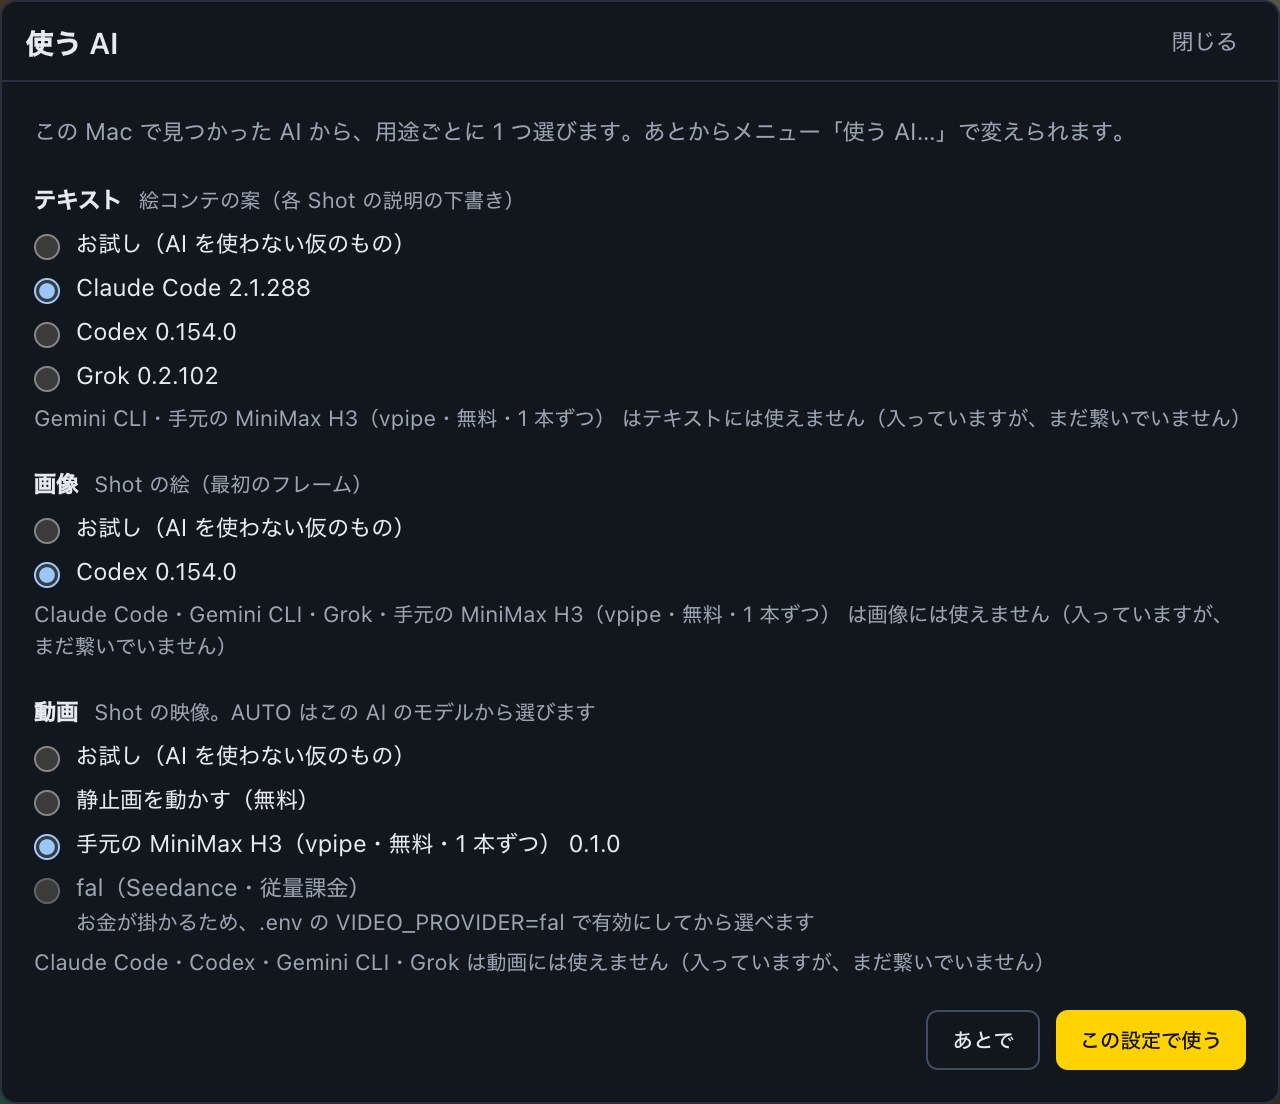
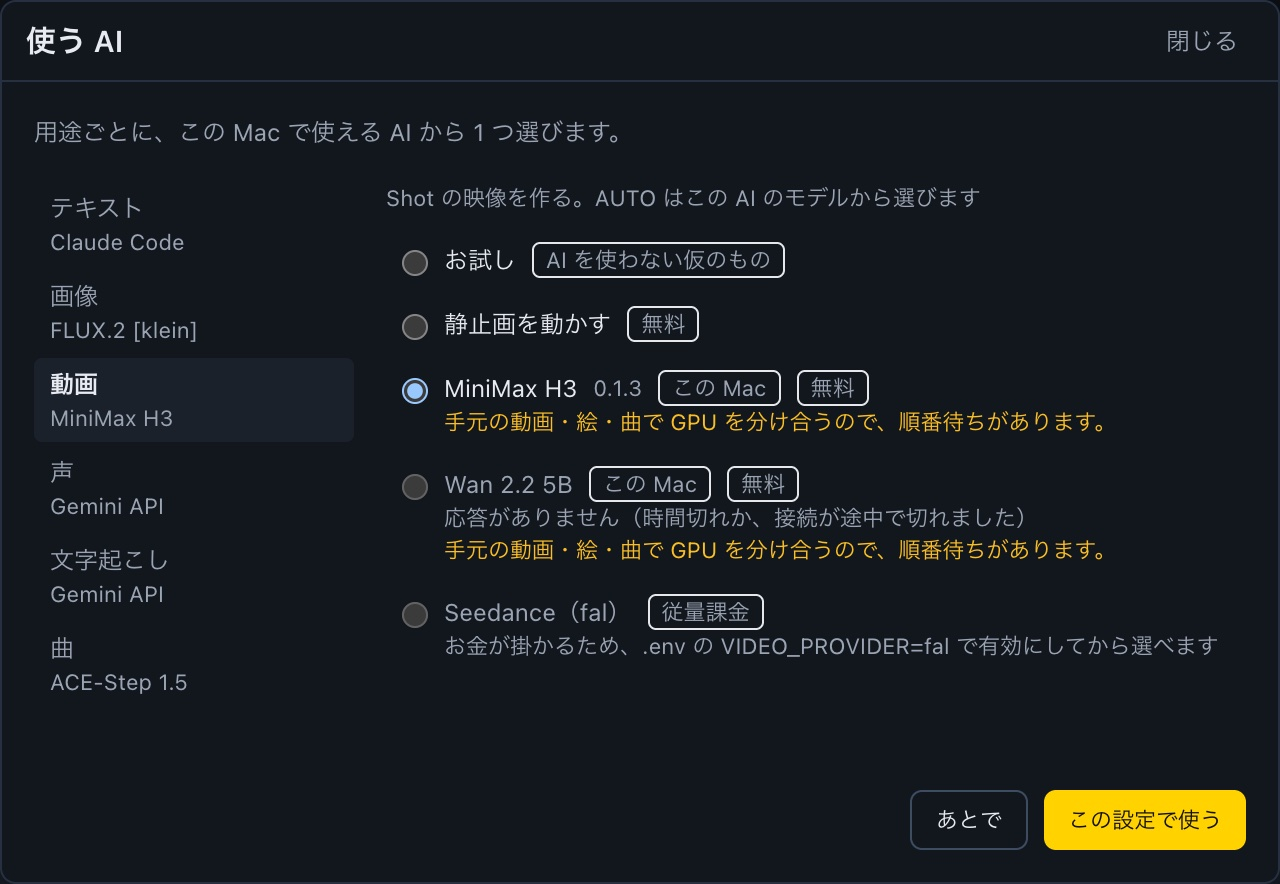
docs: README を今の姿に合わせる（曲づくり・MCP・手元の 4 サーバ・ナレーション）
画像は Codex だけ、動画の手元サーバは 2 つ、という書き方のままだった。
曲を作る（ADR-0048）、エージェントに任せる MCP（ADR-0049）、制作の流れのナレーションの段、
klein と ACE-Step のライセンスを足し、使う AI の表と画面の画像を今のものにした。

Claude-Session: https://claude.ai/code/session_01SywW9NjSXfdkn8Pr8SAdfa

diff --git a/README.md b/README.md
@@ -33,6 +33,9 @@ timeline:
 The work is therefore *edit against the music, then fill each slot* — never *generate clips
 and hope they fit*. The first film made with it is a 1m56s music video in 27 shots.
 
+No finished song yet? *Make a song* writes one on your own Mac with ACE-Step 1.5 — a style, optional
+lyrics, a length — and it lands in the project as a track, analysed like any other.
+
 ![Cutting while listening: section boundaries placed as cuts in one click, with the cuts they make](./docs/images/cutter.jpg)
 
 ## From an empty project to the exported file
@@ -50,24 +53,41 @@ step shows ✓ when it is done, or how far along it is.
 4. **Captions** — the timed lines become text clips. The preview plays the song with the
    captions over black, so you can check timing without generating — or paying for — any
    pictures.
-5. **Cut into shots** — place cuts while listening (Enter works anywhere, cuts snap to the
+5. **Narration** (optional) — write lines and have an AI voice read them, or record your own
+   and let it be transcribed into lines and captions. The music ducks under the voice.
+6. **Cut into shots** — place cuts while listening (Enter works anywhere, cuts snap to the
    beat), or in one click at section boundaries or lyric starts. Cuts are a draft until you
    press *N cuts → shots*.
-6. **Storyboard** — an AI drafts a description, a mood **and a camera** (shot size, angle,
+7. **Storyboard** — an AI drafts a description, a mood **and a camera** (shot size, angle,
    movement) for every shot, each with *why this picture*. It reads the lyrics sung during that
    shot, the characters, the locations and the look. Nothing changes until you adopt a draft,
    shot by shot; you can always write your own.
-7. **Frames** — an AI draws each shot's start frame from its storyboard, with the cast's
+8. **Frames** — an AI draws each shot's start frame from its storyboard, with the cast's
    reference images. Three are drawn at a time (measured: 2.1× faster than one by one), and you
    can stop the whole queue — or only the shots you selected — at any point.
-8. **Takes** — the video for each shot, made from its start frame. While they render you see
+9. **Takes** — the video for each shot, made from its start frame. While they render you see
    which are queued, which are waiting inside the generator and which are being made, with the
    time elapsed and an estimate; generation can be stopped at any point.
-9. **Export** — H.264, the whole film or only the shots you selected. The file is saved into
+10. **Export** — H.264, the whole film or only the shots you selected. The file is saved into
    `~/Movies/ixa-video-creator/<project>/`, and one button opens that folder in Finder.
 
 Skipping a step is allowed, but you are asked first — for example, before drawing frames for
 shots that have no storyboard yet.
+
+## Or hand the whole job to an agent
+
+`apps/mcp` is an MCP server (ADR-0049) that lets Claude Code or Codex drive the same steps through
+21 tools — create the project, make and pick a song, cut it into shots, write the storyboard, draw
+start frames, make takes, adopt them, export. Two of the tools are the agent's eyes: `view`
+returns start frames and frames sampled from a take **as images**, so the agent can look at what it
+made and redraw a broken hand or a morphing car before it moves on.
+
+> "Make a 60-second 16:9 short: a night street race, then the two drivers at dawn."
+
+The agent works through the API with a revocable automation token (ADR-0046), so everything it makes
+appears in the workbench as ordinary shots and takes you can review and change. The first test — a
+62-second, 16-shot short made entirely through these tools, music included — took about four hours
+on one local GPU. Setup: [apps/mcp/README.md](./apps/mcp/README.md).
 
 ## A 30-second spot, start to finish
 
@@ -102,9 +122,10 @@ beat is a choice, and on the reference project 16 of 27 cuts are deliberately of
 path" that can drift from the output — a class of bug that eats hours.
 
 **You choose the AI for each job, from what is already on your machine.** Text (storyboard
-drafts and writing help) can be Claude Code, Codex or Grok; images can be Codex; video can be
-the free local models or fal. The CLIs run under your own sign-in — no API keys for them are
-stored in the app.
+drafts and writing help) can be Claude Code, Codex or Grok; images can be Codex or local FLUX.2
+[klein]; video can be the free local models or fal; music is local ACE-Step 1.5. The CLIs run
+under your own sign-in — no API keys for them are stored in the app. **Text, pictures, video
+and music can all be made on one Mac, for free.**
 
 **Your footage is just files.** Everything the app makes — frames, takes, renders — is written
 to a folder on your disk (`STORAGE_DIR`, no object store in the way), and one button copies a
@@ -140,11 +161,12 @@ leaving it stuck, and a transient network error never discards work you already 
 apps/
   web       Next.js workbench — dockable panels (storyboard, cutter, timeline, compare, drafts)
   api       Hono + zod-openapi
-  worker    BullMQ consumers: video and image generation, media probing, rendering
+  worker    BullMQ consumers: video, image, voice and music generation, media probing, rendering
   audio     Python service — librosa analysis (beats, downbeats, sections, waveform)
+  mcp       MCP server for AI agents (stdio) — a thin client of the API
 packages/
   domain    Pure. No IO. The single source of truth for the model.
-  providers Adapters (video / image / llm). External SDKs and CLIs stop here.
+  providers Adapters (video / image / llm / voice / music). External SDKs and CLIs stop here.
   render    Remotion composition + FFmpeg plan
   db        Drizzle schema and repositories
 ```
@@ -186,17 +208,22 @@ no cost.**
 
 ### Choosing which AI to use
 
-![The "which AI to use" dialog: one choice each for text, images and video, listing what was found on this Mac](./docs/images/ai-chooser.jpg)
+![The "which AI to use" dialog: a tab per job on the left showing the current choice, and the AIs found on this Mac for video on the right, tagged "this Mac" and "free"](./docs/images/ai-chooser.jpg)
 
 The first time you open the workbench, the *使う AI* (which AI to use) dialog appears. It looks
-for the AI CLIs installed on this Mac and a local generation server, and lets you pick one for
+for the AI CLIs, API keys and local generation servers on this Mac, and lets you pick one for
 each job:
 
 | Purpose | Choices |
 |---|---|
-| Text — storyboard drafts, ✦ AI writing help, automatic review | Claude Code · Codex · Grok · stub |
-| Images — shot start frames, character sheets | Codex · stub |
-| Video — takes (AUTO picks among this AI's models) | local still-motion (free) · local MiniMax H3 via vpipe (free) · local Wan 2.2 5B via wan-api (free) · fal (paid) · stub |
+| Text — storyboard drafts, ✦ AI writing help, automatic review | Claude Code · Codex · Grok |
+| Images — shot start frames, character sheets | Codex · FLUX.2 [klein] (local, free) |
+| Video — takes (AUTO picks among this AI's models) | still-motion (free) · MiniMax H3 (local, free) · Wan 2.2 5B (local, free) · Seedance via fal (paid) |
+| Voice — narration | Mac voice (free) · Gemini API · ElevenLabs (paid) |
+| Transcription — recorded narration into lines | whisper.cpp (local, free) · Gemini API · ElevenLabs (paid) |
+| Music — *Make a song* | ACE-Step 1.5 (local, free) |
+
+Every job also has a stub (*お試し*) that runs without any AI.
 
 Change it later from *iXA Video Creator → 使う AI…*. Until you choose, the `.env` settings apply.
 fal and the local server must be enabled in `.env` before they can be chosen — the screen alone
@@ -220,39 +247,42 @@ whether the billing path is open.
 
 ### Generating on this Mac (optional)
 
-Two local generation servers can act as free video providers, and **both can be enabled at once**:
+Four local servers turn one Apple Silicon Mac into a free studio. Enable any of them, or all
+of them.
 
-| Server | Model | Default address |
-|---|---|---|
-| [vpipe-api](https://github.com/kabatin/vpipe-api) | MiniMax H3 Turbo | `http://127.0.0.1:8765` |
-| [wan-api](https://github.com/kabatin/wan-api) | Wan 2.2 TI2V-5B | `http://127.0.0.1:8766` |
+| Server | Makes | Model | Default address |
+|---|---|---|---|
+| [vpipe-api](https://github.com/kabatin/vpipe-api) | video | MiniMax H3 Turbo | `http://127.0.0.1:8765` |
+| [wan-api](https://github.com/kabatin/wan-api) | video | Wan 2.2 TI2V-5B | `http://127.0.0.1:8766` |
+| [klein-api](https://github.com/kabatin/klein-api) | images | FLUX.2 [klein] | `http://127.0.0.1:8767` |
+| [ace-step-api](https://github.com/kabatin/ace-step-api) | music | ACE-Step 1.5 | `http://127.0.0.1:8768` |
 
 ```bash
-# .env (comma-separated; default is `none`)
-LOCAL_VIDEO_GENERATOR=vpipe,wan
+# .env (default for each is `none`)
+LOCAL_VIDEO_GENERATOR=vpipe,wan   # comma-separated
+LOCAL_IMAGE_GENERATOR=klein
+LOCAL_MUSIC_GENERATOR=ace_step
 VPIPE_API_URL=http://127.0.0.1:8765
-VPIPE_API_TOKEN=              # required only when the URL points off this machine
-WAN_API_URL=http://127.0.0.1:8766
-WAN_API_TOKEN=                # same
+VPIPE_API_TOKEN=                  # required only when the URL points off this machine
+# WAN_ / KLEIN_ / ACE_STEP_API_URL and _API_TOKEN work the same way
 ```
 
-Three steps: **start the server, list it in `LOCAL_VIDEO_GENERATOR`, pick it under *Which AI*
-for video.** Installing and running the servers is documented in their own READMEs.
+Three steps: **start the server, list it in `.env`, pick it under *Which AI*.** Installing and
+running the servers is documented in their own READMEs.
 
-**Images can be made locally too** (ADR-0047). Start [klein-api](https://github.com/kabatin/klein-api)
-(FLUX.2 [klein], default `http://127.0.0.1:8767`), set `LOCAL_IMAGE_GENERATOR=klein`, and pick it
-under *Which AI* for images. About 30 s per image, free, and a fixed seed reproduces the picture.
-It shares the GPU with video, so it waits in the same line as video and upscaling
-(`KLEIN_API_URL` / `KLEIN_API_TOKEN` work like the ones above).
+**They share one GPU, so ixa never runs two local generations at the same time.** Video, images,
+upscaling and music wait in one line and finish one after another; the waiting one shows as
+*waiting in line* rather than in progress.
 
-**Music can be made locally too** (ADR-0048). Start ace-step-api (ACE-Step 1.5, default
-`http://127.0.0.1:8768`), set `LOCAL_MUSIC_GENERATOR=ace_step`, and pick it under *Which AI* for
-music. Use *Make a song* in the music area to give a style, optional lyrics, a length (10–240 s),
-instrumental or not, and how many (1–4). About 40 s per 60-second song (up to ~1.5 min on the first run while the model loads), free (MIT licensed). Each result becomes a music track and is sent to beat
-analysis (the first one becomes the master only when the project has none). It shares the GPU with
-video and waits in the same line (`ACE_STEP_API_URL` / `ACE_STEP_API_TOKEN` work like the ones above).
+**Images** (ADR-0047): about 30 s per image, and a fixed seed reproduces the picture.
 
-Each listed server contributes a draft and a standard model; vpipe also publishes a **final**
+**Music** (ADR-0048): *Make a song* in the music area takes a style, optional lyrics, a length
+(10–240 s), instrumental or not, and how many (1–4). About 40 s per 60-second song (up to ~1.5 min
+on the first run while the model loads). Each result becomes a music track and is sent to beat
+analysis; the first one becomes the master only when the project has none. Only the master track
+plays in the preview and the export — the others are candidates.
+
+**Video** (ADR-0031, ADR-0040): each listed server contributes a draft and a standard model; vpipe also publishes a **final**
 one. AUTO chooses among them only when that server is the selected video AI; otherwise it never
 picks them.
 
@@ -270,10 +300,6 @@ take: the picture stays exactly as adopted and only the detail sharpens, to 1920
 take, or for every adopted take from the bulk bar. Measured: about 5.5 min per shot, and the
 upscaled take is appended next to the original. Takes are stored at the size the model actually
 drew (ADR-0045) and scaled once, with Lanczos, at export.
-
-**They share one GPU, so ixa never runs two local generations at the same time.** Ask for two
-and they finish one after another; the waiting one shows as *waiting in line* rather than in
-progress.
 
 **Wan tops out at 5 seconds** (wan-api's contract). A 5–7.5s shot is generated at 5s and slowed to
 fit; beyond 7.5s ixa asks you to split the shot. Use MiniMax H3 (up to 10.125s) for longer cuts.
@@ -295,8 +321,9 @@ Note: with wan-api's `drawthings` backend a start image is rejected — use the 
 
 ## Costs, honestly
 
-Everything except fal is free to run: the stubs, `local/still-motion` and the local MiniMax H3
-and Wan 2.2 servers. Claude Code, Codex and Grok use whatever plan you are already signed in with.
+Everything except fal, ElevenLabs and Gemini's paid tier is free to run: the stubs,
+`local/still-motion`, the four local servers, the Mac voice and whisper.cpp. Claude Code, Codex
+and Grok use whatever plan you are already signed in with.
 
 For the reference project — 27 shots, 110.9s of edited footage — Seedance 2.5 via fal.ai
 bills **140s**, because the model's minimum clip is 4 seconds and 12 of those shots are
@@ -308,8 +335,10 @@ take.
 ## Status
 
 Working end to end, from an empty project to an exported file: analysis → direction → lyric
-timing → captions → cutting → AI storyboard drafts → AI start frames → takes → review →
-timeline → H.264 export. The local video paths (still-motion, MiniMax H3 via vpipe, Wan 2.2 5B via
+timing → captions → narration → cutting → AI storyboard drafts → AI start frames → takes →
+review → timeline → H.264 export — by hand in the workbench, or by an agent through MCP. Local
+images (klein) and local music (ACE-Step) are measured on real hardware and used for real work.
+The local video paths (still-motion, MiniMax H3 via vpipe, Wan 2.2 5B via
 wan-api) are measured on real hardware — though **no clip has been generated from ixa through
 wan-api yet**: those numbers come from wan-api's own benchmarks and the adapter is covered by
 contract tests (ADR-0040). The fal.ai / Seedance 2.5 adapter is implemented and tested against
@@ -345,6 +374,10 @@ operator:
 - **Wan 2.2** (likewise, only if you enable it) is published under Apache-2.0, which permits
   commercial use. ixa does not ship the weights; the attribution and license-notice
   obligations fall on you as the operator — check the model card.
+- **FLUX.2 [klein]** (only if you enable klein-api): the 4B (draft) and 9B (standard) weights
+  are published under different licenses, and the 9B's does not cover commercial use — check
+  both model cards before using the output commercially.
+- **ACE-Step 1.5** (only if you enable ace-step-api) is published under MIT.
 
 ## Contributing
 
